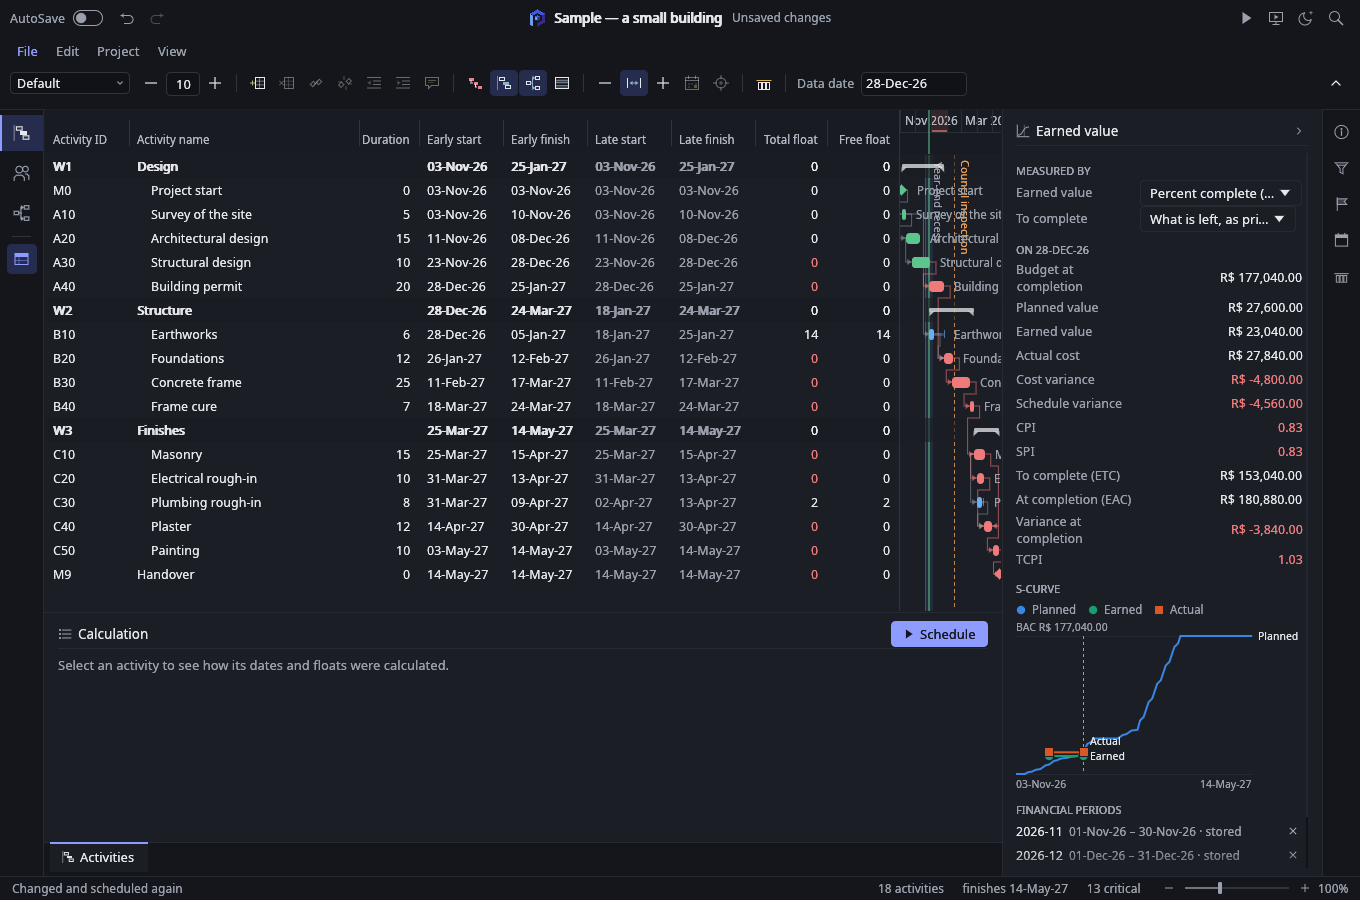
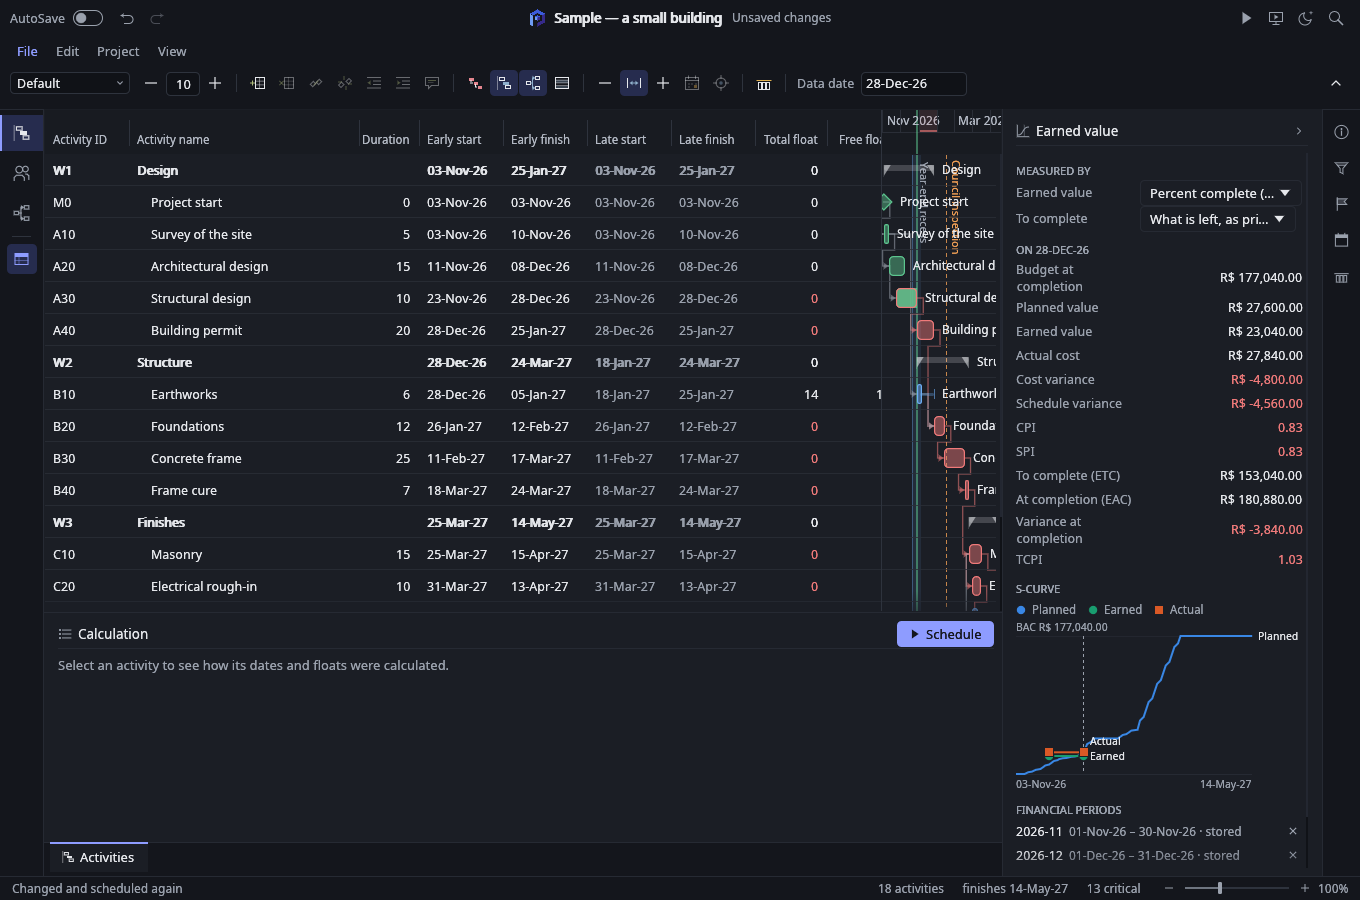
A Gantt chart with room to breathe, after Perth.jl's
Rows 24 -> 32 points, ruled by a hairline across the table and the
chart; bars 11 -> 20 points tall, their colour light inside and full at
the edge (the colours keep their meaning: critical, with float, done);
names in the text's colour; milestones outlined; summaries as rounded
brackets with caps, named, their rows no longer tinted; relationship
lines 1.3 points with larger heads. The README's screenshots rendered
again. Sources: Perth.jl's frontend (the user's own), for its look.

diff --git a/crates/ui-egui/src/activities.rs b/crates/ui-egui/src/activities.rs
@@ -10,7 +10,7 @@ use mkperth_engine::sched::{Scheduled, Status};
 use crate::show_date;
 use crate::theme::Tokens;
 
-const ROW: f32 = 24.0;
+const ROW: f32 = 32.0;
 const HEADER: f32 = 44.0;
 
 /// The table's columns: a message id and a width. The ID and the name are always shown.
@@ -815,14 +815,9 @@ pub(crate) fn show(
         let mut placed = Vec::with_capacity(range.len());
         // A row's own background: every other one tinted when striped.
         // A summary's a little tinted, so the WBS reads at a glance.
-        let plain = |n: usize, summary: bool| {
-            if summary {
-                t.grid_bg.lerp_to_gamma(t.header_bg, 0.7)
-            } else if options.striped && n % 2 == 1 {
-                t.grid_bg.lerp_to_gamma(t.header_bg, 0.5)
-            } else {
-                t.grid_bg
-            }
+        // Summaries stand out by their bold names alone, as the rows around them are plain.
+        let plain = |n: usize, _summary: bool| {
+            if options.striped && n % 2 == 1 { t.grid_bg.lerp_to_gamma(t.header_bg, 0.5) } else { t.grid_bg }
         };
         for (k, &(i, depth)) in rows.iter().skip(range.start).take(range.len()).enumerate() {
             let n = range.start + k;
@@ -944,7 +939,7 @@ pub(crate) fn show(
             let chart_part = Rect::from_min_max(pos2(chart_left, rect.top()), rect.max);
             let fill = if chosen { t.accent_soft } else { plain(n, is_summary(i)) };
             painter.rect_filled(table_part, 0.0, fill);
-            if fill != t.grid_bg {
+            if chosen || (options.striped && n % 2 == 1) {
                 painter.rect_filled(chart_part, 0.0, fill.gamma_multiply(if chosen { 0.75 } else { 0.6 }));
             }
             if chosen && selected == Some(i) {
@@ -1005,7 +1000,7 @@ pub(crate) fn show(
                 let x1 = if to_start { qe.0 } else { qe.1 };
                 let (y0, y1) = (y_of(np), y_of(nq));
                 let critical = schedule.activities.get(p).is_some_and(|s| s.critical) && schedule.activities.get(q).is_some_and(|s| s.critical);
-                let color = if critical { t.red.gamma_multiply(0.6) } else { t.text_dim.gamma_multiply(0.5) };
+                let color = if critical { t.red.gamma_multiply(0.55) } else { t.text_dim.gamma_multiply(0.55) };
                 link(&painter, (x0, y0), (x1, y1), from_finish, to_start, color);
             }
         }
@@ -1163,7 +1158,8 @@ pub(crate) fn show(
                 }
             }
             let chart = painter.with_clip_rect(Rect::from_min_max(pos2(chart_left, rect.top()), rect.max));
-            painter.hline(rect.left()..=chart_left, rect.bottom(), Stroke::new(1.0, t.gridline));
+            // A hairline under the row, across the table and the chart, as ruled paper.
+            painter.hline(rect.x_range(), rect.bottom() - 0.5, Stroke::new(1.0, t.gridline.gamma_multiply(0.8)));
             let chosen = selected == Some(i) || marked.contains(&i) || banded.contains(&i);
             let look = Look { summary, selected: chosen, float: options.late_bars, data_date };
             // The baseline's bar, thin, under the schedule's.
@@ -1171,8 +1167,8 @@ pub(crate) fn show(
                 && let Some(b) = b
             {
                 let (l, r) = (x_of(b.start.days(), chart_left), x_of(b.finish.days(), chart_left) + scale);
-                let y = rect.center().y + 7.0;
-                chart.rect_filled(Rect::from_min_max(pos2(l, y), pos2(r.max(l + 3.0), y + 3.0)), 1.0, t.orange.gamma_multiply(0.85));
+                let y = rect.center().y + BAR_HALF + 1.0;
+                chart.rect_filled(Rect::from_min_max(pos2(l, y), pos2(r.max(l + 3.0), y + 3.0)), 1.5, t.orange.gamma_multiply(0.85));
             }
             bar(&chart, a.kind, &a.name, s, rect, &|d: Date| x_of(d.days(), chart_left), scale, look, &t);
         }
@@ -1310,9 +1306,13 @@ struct Look {
     data_date: Option<Date>,
 }
 
-/// An activity's bar: flat with soft corners, red on the critical path, its float a light band
-/// to the late finish, its name beside it in a quiet grey; a summary as a slim bracket over its
-/// span; a milestone as a diamond.
+/// Half a bar's height: a bar fills its row but for a margin above and below.
+const BAR_HALF: f32 = 10.0;
+
+/// An activity's bar: soft corners, its colour light inside and full at its edge (red on the
+/// critical path, blue with float, green for what is done), its float a light band to the late
+/// finish, its name beside it; a summary as a slim rounded bracket over its span, caps at its
+/// ends; a milestone as a diamond.
 #[allow(clippy::too_many_arguments)]
 fn bar(
     painter: &egui::Painter,
@@ -1328,29 +1328,30 @@ fn bar(
     let mid = row.center().y;
     let span = |a: Date, b: Date| (x_of(a), x_of(b) + scale);
     let label = |x: f32| {
-        let galley = painter.layout_no_wrap(name.to_string(), FontId::proportional(11.5), t.text_dim);
+        let galley = painter.layout_no_wrap(name.to_string(), FontId::proportional(12.0), t.text);
         // Clear of the relationship line that leaves the bar's end and turns down.
-        painter.galley(pos2(x + 10.0, mid - galley.size().y / 2.0), galley, t.text_dim);
+        painter.galley(pos2(x + 8.0, mid - galley.size().y / 2.0), galley, t.text);
     };
     let ring = |rect: Rect, radius: f32| {
         if look.selected {
-            painter.rect_stroke(rect.expand(1.5), radius + 1.5, Stroke::new(1.5, t.accent), StrokeKind::Outside);
+            painter.rect_stroke(rect.expand(2.5), radius + 2.0, Stroke::new(1.5, t.accent), StrokeKind::Outside);
         }
     };
     if look.summary {
         let (l, r) = span(s.early_start, s.early_finish);
-        let color = t.text.gamma_multiply(0.75);
-        let body = Rect::from_min_max(pos2(l, mid - 2.5), pos2(r, mid + 1.5));
-        painter.rect_filled(body, 1.0, color);
+        let ink = t.text;
+        let body = Rect::from_min_max(pos2(l, mid - 5.0), pos2(r.max(l + 6.0), mid + 1.0));
+        painter.rect_filled(body, 3.0, ink.gamma_multiply(0.2));
         for x in [l, r] {
             let dx = if x == l { 1.0 } else { -1.0 };
             painter.add(egui::Shape::convex_polygon(
-                vec![pos2(x, mid + 1.5), pos2(x + dx * 5.0, mid + 1.5), pos2(x, mid + 6.0)],
-                color,
+                vec![pos2(x, mid - 5.0), pos2(x + dx * 7.0, mid - 5.0), pos2(x, mid + 6.0)],
+                ink.gamma_multiply(0.55),
                 Stroke::NONE,
             ));
         }
-        ring(body, 1.0);
+        ring(body, 3.0);
+        label(r);
         return;
     }
     // What happened in green: a completed activity whole, an activity under way up to the data date.
@@ -1361,28 +1362,30 @@ fn bar(
     } else {
         t.blue
     };
+    let light = color.gamma_multiply(if t.dark { 0.45 } else { 0.5 });
     if kind.is_milestone() || s.early_start > s.early_finish {
         // A start milestone at the morning of its day, a finish milestone at the evening.
         let x = if kind == ActivityKind::FinishMilestone { x_of(s.early_finish) + scale } else { x_of(s.early_start) };
-        let r = 5.5;
+        let r = 8.0;
         let diamond = vec![pos2(x, mid - r), pos2(x + r, mid), pos2(x, mid + r), pos2(x - r, mid)];
-        let edge = if look.selected { Stroke::new(1.5, t.accent) } else { Stroke::NONE };
-        painter.add(egui::Shape::convex_polygon(diamond, color, edge));
+        painter.add(egui::Shape::convex_polygon(diamond.clone(), light, Stroke::NONE));
+        painter
+            .add(egui::Shape::closed_line(diamond, Stroke::new(if look.selected { 2.0 } else { 1.2 }, if look.selected { t.accent } else { color })));
         label(x + r);
         return;
     }
     let (l, r) = span(s.early_start, s.early_finish);
     let r = r.max(l + 3.0);
-    let radius = 3.0_f32.min((r - l) / 2.0);
+    let radius = 4.0_f32.min((r - l) / 2.0);
     // The float first, after the bar's end: a light band to the late finish, a tick there.
     if look.float && s.total_float > 0 {
         let (_, lr) = span(s.late_start, s.late_finish);
         let band = Rect::from_min_max(pos2(r - 2.0, mid - 1.5), pos2(lr, mid + 1.5));
         painter.rect_filled(band, 1.0, color.gamma_multiply(0.3));
-        painter.vline(lr, (mid - 4.0)..=(mid + 4.0), Stroke::new(1.0, color.gamma_multiply(0.6)));
+        painter.vline(lr, (mid - 5.0)..=(mid + 5.0), Stroke::new(1.0, color.gamma_multiply(0.6)));
     }
-    let body = Rect::from_min_max(pos2(l, mid - 5.5), pos2(r, mid + 5.5));
-    painter.rect_filled(body, radius, color);
+    let body = Rect::from_min_max(pos2(l, mid - BAR_HALF), pos2(r, mid + BAR_HALF));
+    painter.rect_filled(body, radius, light);
     if s.status == Status::InProgress
         && let Some(d) = look.data_date
     {
@@ -1390,9 +1393,10 @@ fn bar(
         if done > l {
             let part = Rect::from_min_max(body.min, pos2(done, body.bottom()));
             let corners = egui::CornerRadius { nw: radius as u8, sw: radius as u8, ne: 0, se: 0 };
-            painter.rect_filled(part, corners, t.green);
+            painter.rect_filled(part, corners, t.green.gamma_multiply(0.85));
         }
     }
+    painter.rect_stroke(body, radius, Stroke::new(1.2, color), StrokeKind::Inside);
     ring(body, radius);
     let end = if look.float && s.total_float > 0 { span(s.late_start, s.late_finish).1 } else { r };
     label(end);
@@ -1419,10 +1423,10 @@ fn link(painter: &egui::Painter, from: (f32, f32), to: (f32, f32), from_finish: 
         let mid = y0 + down * (ROW / 2.0);
         points.extend([pos2(out, y0), pos2(out, mid), pos2(into, mid), pos2(into, y1), pos2(x1, y1)]);
     }
-    painter.add(egui::Shape::line(points, Stroke::new(1.0, color)));
+    painter.add(egui::Shape::line(points, Stroke::new(1.3, color)));
     let head = if to_start { -1.0 } else { 1.0 };
     painter.add(egui::Shape::convex_polygon(
-        vec![pos2(x1, y1), pos2(x1 + head * 4.5, y1 - 3.0), pos2(x1 + head * 4.5, y1 + 3.0)],
+        vec![pos2(x1, y1), pos2(x1 + head * 5.0, y1 - 3.5), pos2(x1 + head * 5.0, y1 + 3.5)],
         color,
         Stroke::NONE,
     ));

diff --git a/crates/ui-egui/tests/app.rs b/crates/ui-egui/tests/app.rs
@@ -492,9 +492,9 @@ fn quick(app: PerthApp) -> Harness<'static, PerthApp> {
 // Where the sample's rows and ruler are in the 1360 × 820 window: W1, M0, A10, A20, A30 down
 // the table; the ruler's months over its days; the chart past the table.
 const TABLE_X: f32 = 200.0;
-const ROW_A10: f32 = 214.0;
-const ROW_A20: f32 = 238.0;
-const ROW_A30: f32 = 262.0;
+const ROW_A10: f32 = 234.0;
+const ROW_A20: f32 = 266.0;
+const ROW_A30: f32 = 298.0;
 
 /// Dragging over rows of the table chooses them all; Ctrl and a click adds one; Delete takes
 /// every one chosen, in one change.
@@ -646,7 +646,7 @@ fn drag(h: &mut Harness<'static, PerthApp>, from: egui::Pos2, to: egui::Pos2) {
 }
 
 // B10, Earthworks, has 19 days of float: its bar is the blue one on its row, from 25 November.
-const ROW_B10: f32 = 334.0;
+const ROW_B10: f32 = 394.0;
 const B10_MIDDLE: f32 = 970.0;
 const B10_FINISH_EDGE: f32 = 978.0;
 
@@ -960,7 +960,7 @@ fn codes_added_and_a_column_sorts() {
     assert!(h.state().session.project.classification.code("Phase").is_some());
     // The title "Total float": the table's eighth column (ID 84, name 230, duration 60, four
     // dates of 84 from x 44), in the header over the first row.
-    let (x, header_y) = (44.0 + 84.0 + 230.0 + 60.0 + 4.0 * 84.0 + 30.0, ROW_A10 - 2.0 * 24.0 - 22.0);
+    let (x, header_y) = (44.0 + 84.0 + 230.0 + 60.0 + 4.0 * 84.0 + 30.0, ROW_A10 - 2.0 * 32.0 - 26.0);
     click(&mut h, egui::pos2(x, header_y), egui::Modifiers::NONE);
     assert_eq!(h.state().options.sort, Some((mkperth_ui_egui::activities::SortBy::Column(7), false)));
     click(&mut h, egui::pos2(x, header_y), egui::Modifiers::NONE);

diff --git a/CHANGELOG.md b/CHANGELOG.md
@@ -10,6 +10,12 @@ Read it before re-scheduling a plan with a new version.
 
 ## [Unreleased]
 
+- A Gantt chart with room to breathe, after Perth.jl's: taller rows (32 points) ruled by a
+  hairline across the table and the chart; bars twice as tall, light inside and full-coloured at
+  their edge (still red on the critical path, blue with float, green for what is done), with
+  their names in the text's colour; milestones as outlined diamonds; summaries as slim rounded
+  brackets named at their end, their rows plain with bold names; relationship lines a little
+  stronger, with larger arrowheads.
 - The line between the activity table and the Gantt chart is dragged to make the table wider or
   narrower: wider, the name column takes the room; narrower, the columns at the right are cut.
   A double click on the line gives the table its columns' own width back. With the keyboard, Tab
